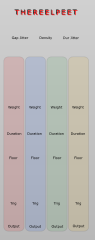
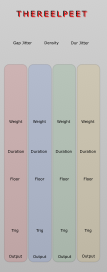
wip: layout tuning and METAMODULE_BUILTIN guards
- Iterative widget layout adjustments (global knobs, switch, lane spacing)
- Lane 4 nudged +1 unit right to better center on gradient
- Add METAMODULE_BUILTIN guards to plugin.cpp for simulator compatibility
- Updated panel PNG and built .mmplugin

diff --git a/src/Phrasing.cpp b/src/Phrasing.cpp
@@ -342,41 +342,45 @@ PhrasingWidget::PhrasingWidget(Phrasing* module) {
     setModule(module);
     setPanel(createPanel(asset::plugin(pluginInstance, "res/Phrasing.png")));
 
-    // Much lower layout for 240px height
-    const float densityX = 73.f;
-    const float gapJitterX = 33.f;
-    const float durJitterX = 113.f;
-    const float guaranteeX = 143.f;
-    const float globalY = 28.f;
+    // VCV pixel coordinate space: X 0-150 (10HP), Y 0-380 (3U)
+    // Panel PNG: 107x272px (68.7 DPI); MM rotates portrait panels 90° CCW to landscape
+    // Landscape mapping: screen_x = orig_y * 0.716, screen_y = (150-orig_x) * 0.713
+    // SVG anchors: DENSITY_PARAM cy=58, OUT cy=120, PRESENCE cy=170
+    // SVG label paths: weight y≈168, dur y≈211, floor y≈248, trig y≈320, out y≈357
+    // Lane rects: x=6,40,74,108 w=32 h=276 y=90 → centers at x=22,56,90,124
+    const float laneSpacing = 39.f;
+    const float lane1X      = 24.f;
 
-    const float lane1X = 28.f;
-    const float lane2X = 68.f;
-    const float lane3X = 108.f;
-    const float lane4X = 148.f;
+    const float gapJitterX = 35.f;
+    const float densityX   = 81.f;
+    const float durJitterX = 126.f;
+    const float guaranteeX = 155.f;
+    const float globalY    = 46.f;    // portrait_y→display_x; 82→103 centers knobs over their labels
+    const float guaranteeY = 46.f;   // switch further right in landscape (display_x≈379)
 
-    const float enY = 65.f;
-    const float lightY = 82.f;
-    const float weightY = 115.f;
-    const float laneDurY = 150.f;
-    const float floorY = 180.f;
-    const float outY = 217.f;
-    const float trigY = 200.f;
+    const float enY      = 124.f;  // well inside gradient (starts y=90)
+    const float lightY   = 145.f;
+    const float weightY  = 171.f;  // matches SVG PRESENCE anchor cy=170
+    const float laneDurY = 220.f;
+    const float floorY   = 264.f;
+    const float trigY    = 306.f;  // SVG trig labels at y≈320
+    const float outY     = 347.f;  // SVG out labels at y≈357
 
-    addParam(createParamCentered<RoundBlackKnob>(Vec(densityX, globalY), module, Phrasing::DENSITY_PARAM));
     addParam(createParamCentered<RoundBlackKnob>(Vec(gapJitterX, globalY), module, Phrasing::GAP_JITTER_PARAM));
+    addParam(createParamCentered<RoundBlackKnob>(Vec(densityX, globalY), module, Phrasing::DENSITY_PARAM));
     addParam(createParamCentered<RoundBlackKnob>(Vec(durJitterX, globalY), module, Phrasing::DURATION_JITTER_PARAM));
-    addParam(createParamCentered<CKSS>(Vec(guaranteeX, globalY), module, Phrasing::GUARANTEE_ONE_PARAM));
+    addParam(createParamCentered<CKSS>(Vec(guaranteeX, guaranteeY), module, Phrasing::GUARANTEE_ONE_PARAM));
 
-    addInput(createInputCentered<PJ301MPort>(Vec(densityX, globalY + 28), module, Phrasing::DENSITY_CV_INPUT));
+    addInput(createInputCentered<PJ301MPort>(Vec(densityX, 85.f), module, Phrasing::DENSITY_CV_INPUT));
 
     for (int i = 0; i < 4; i++) {
-        float x = lane1X + i * 40.f;
+        float x = lane1X + i * laneSpacing + (i == 3 ? 1.f : 0.f);
         addParam(createParamCentered<TL1105>(Vec(x, enY), module, Phrasing::LANE1_ACTIVE_PARAM + i));
         addChild(createLightCentered<MediumLight<GreenLight>>(Vec(x, lightY), module, Phrasing::LANE1_LIGHT + i));
         addParam(createParamCentered<RoundBlackKnob>(Vec(x, weightY), module, Phrasing::WEIGHT1_PARAM + i));
         addParam(createParamCentered<RoundBlackKnob>(Vec(x, laneDurY), module, Phrasing::LANEDUR1_PARAM + i));
         addParam(createParamCentered<RoundBlackKnob>(Vec(x, floorY), module, Phrasing::FLOOR1_PARAM + i));
-        addOutput(createOutputCentered<PJ301MPort>(Vec(x, outY), module, Phrasing::OUT1_OUTPUT + i));
         addInput(createInputCentered<PJ301MPort>(Vec(x, trigY), module, Phrasing::TRIG1_INPUT + i));
+        addOutput(createOutputCentered<PJ301MPort>(Vec(x, outY), module, Phrasing::OUT1_OUTPUT + i));
     }
 }

diff --git a/src/plugin.cpp b/src/plugin.cpp
@@ -1,8 +1,16 @@
 #include "plugin.hpp"
 
+#ifdef METAMODULE_BUILTIN
 extern Plugin* pluginInstance;
+#else
+Plugin* pluginInstance;
+#endif
 
+#ifdef METAMODULE_BUILTIN
 void init_PhrasingModuleMM(Plugin* p) {
+#else
+void init(Plugin* p) {
+#endif
     pluginInstance = p;
     p->addModel(modelPhrasingMM);
 }